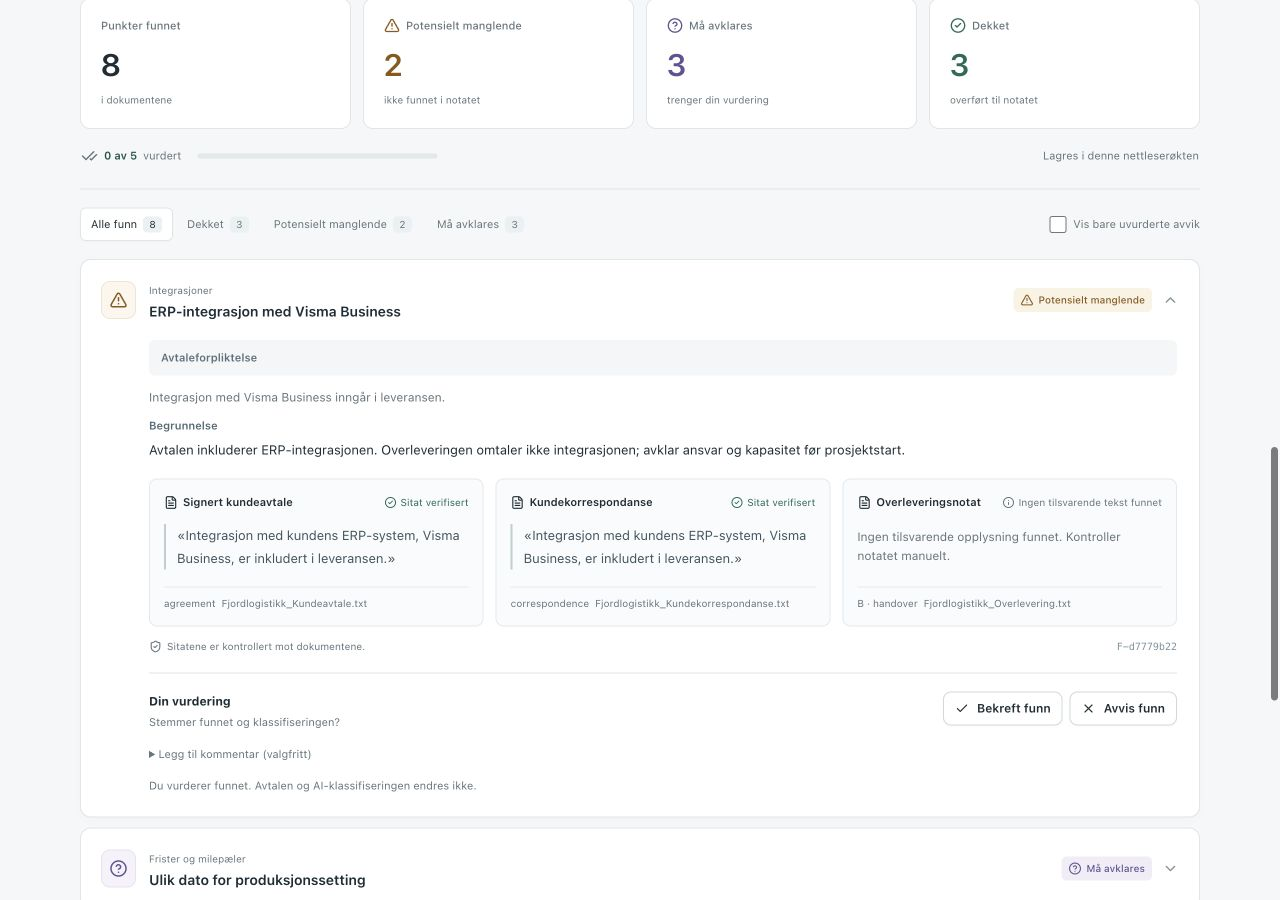
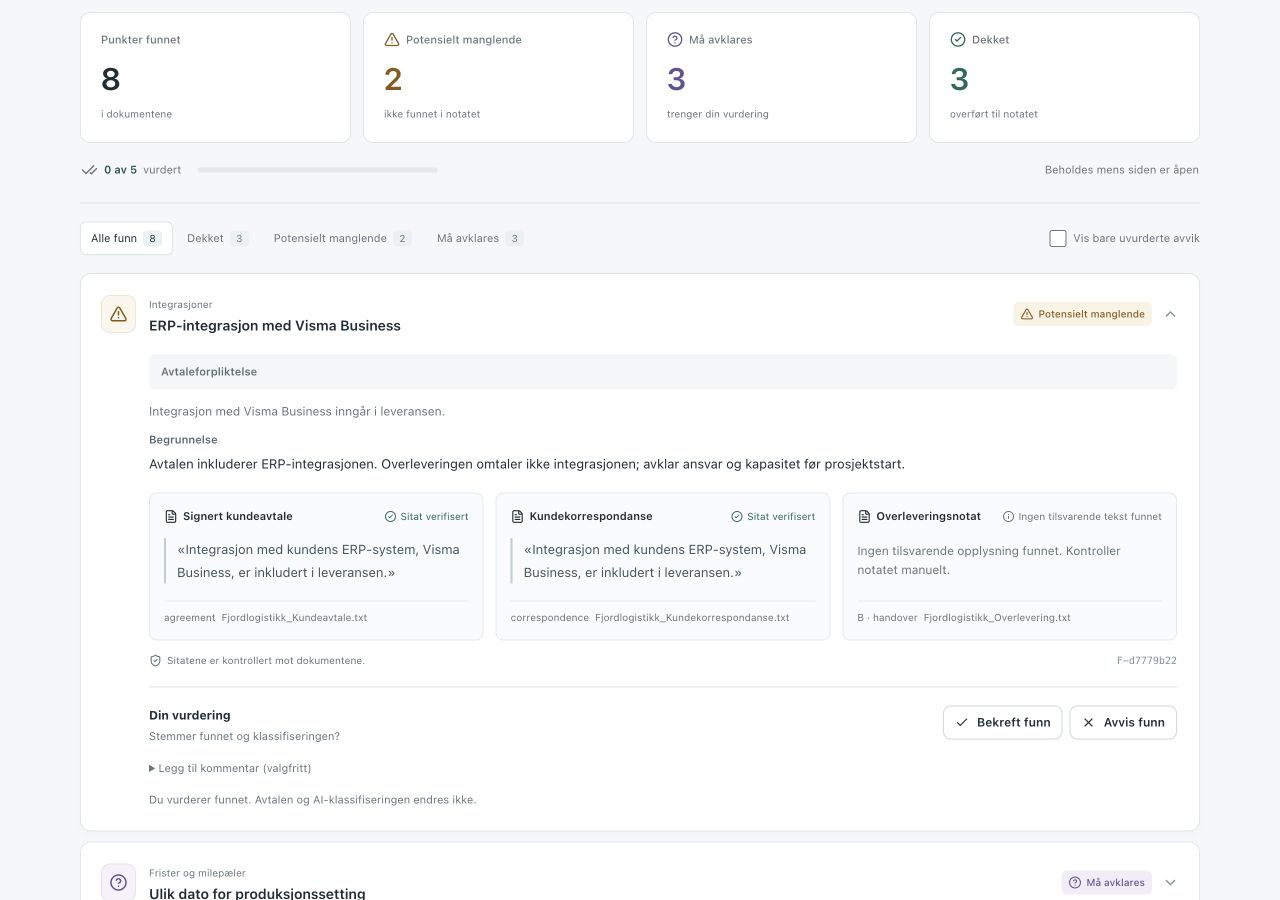
Preserve reviews on upload errors and simplify session handling

diff --git a/src/components/handover-app.tsx b/src/components/handover-app.tsx
@@ -46,8 +46,6 @@ import {
   canGenerateProposal,
   reviewProgress,
   requiresReview,
-  serializeSession,
-  SESSION_KEY,
   updateReview,
   type WorkflowActivity,
 } from "@/lib/review";
@@ -63,38 +61,11 @@ export function HandoverApp({ model }: { model: string }) {
   const [consent, setConsent] = useState(false);
   const [busy, setBusy] = useState<WorkflowActivity>(null);
   const [error, setError] = useState("");
-  const [storageWarning, setStorageWarning] = useState("");
-  const [ready, setReady] = useState(false);
   const [filter, setFilter] = useState<Classification | "all">("all");
   const [onlyUnreviewed, setOnlyUnreviewed] = useState(false);
   const [documentView, setDocumentView] = useState<DocumentId | null>(null);
   const lock = useRef(false);
   const resultsRef = useRef<HTMLDivElement>(null);
-
-  useEffect(() => {
-    try {
-      // A new page visit always starts a fresh control. Never restore an old
-      // analysis into the upload flow, even when this tab has saved results.
-      sessionStorage.removeItem(SESSION_KEY);
-    } catch {
-      /* eslint-disable react-hooks/set-state-in-effect */
-      setStorageWarning(
-        "Nettleseren tillater ikke øktlagring. Vurderinger beholdes bare mens siden er åpen.",
-      );
-    }
-    setReady(true);
-    /* eslint-enable react-hooks/set-state-in-effect */
-  }, []);
-  useEffect(() => {
-    if (!ready) return;
-    try {
-      if (result)
-        sessionStorage.setItem(SESSION_KEY, serializeSession(result, reviews));
-      else sessionStorage.removeItem(SESSION_KEY);
-    } catch {
-      /* State remains available in memory if session storage is disabled. */
-    }
-  }, [result, reviews, ready]);
 
   async function upload(file: File, id: DocumentId) {
     if (lock.current) return;
@@ -113,8 +84,6 @@ export function HandoverApp({ model }: { model: string }) {
     }
     lock.current = true;
     setBusy(id);
-    setResult(null);
-    setReviews({});
     try {
       const form = new FormData();
       form.set("file", file);
@@ -134,6 +103,7 @@ export function HandoverApp({ model }: { model: string }) {
       setResult(null);
       setReviews({});
       setFilter("all");
+      setOnlyUnreviewed(false);
     } catch (e) {
       setError(
         e instanceof Error && e.name !== "TimeoutError"
@@ -284,7 +254,7 @@ export function HandoverApp({ model }: { model: string }) {
             {!result && !busy && (
               <div className="demo-invite">
                 <div><strong>Se hvordan det fungerer</strong><span>Ferdig eksempel. Ingen API-nøkkel nødvendig.</span></div>
-                <Button variant="outline" onClick={demo} disabled={!ready}><Play size={15} /> Prøv demo</Button>
+                <Button variant="outline" onClick={demo}><Play size={15} /> Prøv demo</Button>
               </div>
             )}
           </div>
@@ -363,7 +333,7 @@ export function HandoverApp({ model }: { model: string }) {
                   key={id}
                   id={id}
                   document={documents[id]}
-                  disabled={!!busy || !consent || !ready}
+                  disabled={!!busy || !consent}
                   loading={busy === id}
                   onUpload={(file) => upload(file, id)}
                   onView={() => setDocumentView(id)}
@@ -384,7 +354,7 @@ export function HandoverApp({ model }: { model: string }) {
                     key={id}
                     id={id}
                     document={documents[id]}
-                    disabled={!!busy || !consent || !ready}
+                    disabled={!!busy || !consent}
                     loading={busy === id}
                     onUpload={(file) => upload(file, id)}
                     onView={() => setDocumentView(id)}
@@ -462,11 +432,6 @@ export function HandoverApp({ model }: { model: string }) {
               </button>
             </div>
           )}
-          {storageWarning && (
-            <p className="storage-warning" role="status">
-              {storageWarning}
-            </p>
-          )}
           {busy === "analysis" && (
             <div className="loading-panel" role="status" aria-live="polite">
               <LoaderCircle className="spin" size={24} />
@@ -483,6 +448,7 @@ export function HandoverApp({ model }: { model: string }) {
               className="results-section"
               ref={resultsRef}
               aria-labelledby="results-title"
+              inert={!!busy && busy !== "generation" && busy !== "verification"}
             >
               <div className={`analysis-origin ${result.mode}`}>
                 <span>
@@ -596,7 +562,7 @@ export function HandoverApp({ model }: { model: string }) {
                     ? "Kontroller dokumentene og start en ny analyse"
                     : progress.unresolved === 0
                     ? "Klar til å lage forslag"
-                    : "Lagres i denne nettleserøkten"}
+                    : "Beholdes mens siden er åpen"}
                 </span>
               </div>
               <div className="findings-toolbar">

diff --git a/tests/core.test.ts b/tests/core.test.ts
@@ -18,9 +18,7 @@ import { demoDocuments, demoResponse, getDemoAnalysis } from "../src/lib/demo";
 import {
   canGenerateProposal,
   getWorkflowStep,
-  parseSession,
   reviewProgress,
-  serializeSession,
   updateReview,
 } from "../src/lib/review";
 import { dataset } from "../evaluation/dataset";
@@ -139,7 +137,7 @@ describe("AI schema and evidence", () => {
     ).toHaveLength(1);
   });
 });
-describe("human review and browser session", () => {
+describe("human review and workflow", () => {
   it("keeps an empty analysis at review instead of marking the workflow complete", () => {
     const result = { ...getDemoAnalysis(false), findings: [] };
     expect(reviewProgress(result.findings, {})).toEqual({ reviewed: 0, unresolved: 0, total: 0 });
@@ -216,9 +214,6 @@ describe("human review and browser session", () => {
       total: 3,
     });
     expect(result.findings[0].classification).toBe("potentially_missing");
-    expect(parseSession(serializeSession(result, changed))?.reviews).toEqual(
-      changed,
-    );
     expect(
       reviewProgress(
         result.findings,
@@ -228,7 +223,7 @@ describe("human review and browser session", () => {
       ).unresolved,
     ).toBe(2);
   });
-  it("comments do not count as reviewed and malformed sessions are ignored", () => {
+  it("does not count comments as reviewed and rejects overlong comments", () => {
     const result = getDemoAnalysis(false);
     expect(
       reviewProgress(
@@ -236,8 +231,6 @@ describe("human review and browser session", () => {
         updateReview({}, result.findings[0].id, { comment: "Notat" }),
       ).reviewed,
     ).toBe(0);
-    for (const value of [null, "bad json", "{}", '{"result":null}'])
-      expect(parseSession(value)).toBeNull();
     expect(() =>
       updateReview({}, "F-1", { comment: "a".repeat(1001) }),
     ).toThrow();

diff --git a/src/lib/review.ts b/src/lib/review.ts
@@ -1,7 +1,6 @@
 import { duplicateDocumentMessage } from "./document-validation";
 import {
   reviewsSchema,
-  sessionSchema,
   type AnalysisResult,
   type Finding,
   type Review,
@@ -9,7 +8,6 @@ import {
   type UploadedDocument,
   type DocumentId,
 } from "./schemas";
-export const SESSION_KEY = "handover-ai-session-v1";
 export type WorkflowActivity =
   DocumentId | "analysis" | "verification" | "generation" | null;
 export function getWorkflowStep(
@@ -63,15 +61,4 @@ export function canGenerateProposal(
     analysis.findings.length > 0 &&
     reviewProgress(analysis.findings, reviews).unresolved === 0
   );
-}
-export function parseSession(value: string | null) {
-  if (!value) return null;
-  try {
-    return sessionSchema.parse(JSON.parse(value));
-  } catch {
-    return null;
-  }
-}
-export function serializeSession(result: AnalysisResult, reviews: Reviews) {
-  return JSON.stringify(sessionSchema.parse({ result, reviews }));
 }

diff --git a/src/app/globals.css b/src/app/globals.css
@@ -105,7 +105,6 @@ footer { display: flex; align-items: center; justify-content: space-between; gap
 .error-message { display: flex; align-items: flex-start; gap: 12px; padding: 18px; border: 1px solid #eccdc3; background: #fff4f0; color: #963e29; border-radius: 10px; margin-top: 20px; font-size: 13px; }
 .error-message p { margin-top: 4px; }
 .error-message > button { margin-left: auto; background: none; border: 0; color: inherit; }
-.storage-warning { font-size: 12px; color: var(--amber); margin-top: 12px; }
 .loading-panel { text-align: center; padding: 48px 20px; background: #fff; border: 1px solid var(--line); border-radius: var(--radius); margin-top: 24px; }
 .loading-panel > svg { color: var(--green); margin: 0 auto 14px; }
 .loading-panel h3 { font-size: 18px; }

diff --git a/src/lib/schemas.ts b/src/lib/schemas.ts
@@ -168,10 +168,6 @@ export const reviewSchema = z
   })
   .strict();
 export const reviewsSchema = z.record(z.string(), reviewSchema);
-export const sessionSchema = z.object({
-  result: analysisSchema,
-  reviews: reviewsSchema,
-});
 export type UploadedDocument = z.infer<typeof documentSchema>;
 export type Documents = z.infer<typeof documentsSchema>;
 export type AiFinding = z.infer<typeof aiFindingSchema>;

diff --git a/tests/secrets.test.ts b/tests/secrets.test.ts
@@ -21,7 +21,7 @@ describe("portfolio secret checks", () => {
       expect(sensitivePath(path)).toBe(true);
     for (const path of [
       ".env.example",
-      "docs/start-preview.png",
+      "docs/screenshots/start.jpg",
       "public/examples/Fjordlogistikk_Kundeavtale.txt",
     ])
       expect(sensitivePath(path)).toBe(false);

diff --git a/docs/verification.md b/docs/verification.md
@@ -2,7 +2,7 @@
 
 ## Gjeldende versjon
 
-Kontrollert etter oppdateringen av grensesnitt, språk og demodokumenter:
+Kontrollert etter rettingen av filbytte og forenklingen av øktbehandling:
 
 | Kontroll | Resultat |
 | --- | --- |
@@ -14,7 +14,9 @@ Kontrollert etter oppdateringen av grensesnitt, språk og demodokumenter:
 
 Hele demoen ble gjennomført i grensesnittet uten API-kall: åtte funn, fem nødvendige vurderinger, oppdatert forslag, tekstsammenligning, ny kontroll og manuell godkjenning. Ny kontroll beholdt alle åtte funn. Alle var dekket, med to åpne oppfølgingspunkter. Redigering fjernet godkjenningen og oppdaterte tekstsammenligningen. «Lukk demo» nullstilte kontrollen.
 
-På mobil ble de to syntetiske TXT-filene lastet opp gjennom filvelgeren. Progresjonen gikk til steg 02, og analyseknappen ble tilgjengelig. [Skjermbildene](../README.md#skjermbilder) er tatt fra det nye produksjonsbygget.
+Et avvist filbytte beholdt alle vurderinger, det manuelt redigerte utkastet og godkjenningen. Et vellykket filbytte nullstilte analysen og utkastet. En sideoppdatering startet med tom kontroll. Arbeidsøkten bruker bare nettleserminnet.
+
+På mobil ble de to syntetiske TXT-filene tidligere lastet opp gjennom filvelgeren. Progresjonen gikk til steg 02, og analyseknappen ble tilgjengelig. [Skjermbildene](../README.md#skjermbilder) viser syntetiske dokumenter; funnvisningen er oppdatert etter forenklingen av øktbehandling.
 
 Duplikatkontrollen er testet med samme tekst i ulike dokumentfelt, omdøpte filer, PDF/TXT og forskjeller i Unicode eller mellomrom. I nettleseren ga samme kunde-e-post i begge obligatoriske felt et varsel og sperret analyse. Varselet forsvant etter filbytte. Tomme analyser kan verken åpne forslag i grensesnittet eller sendes til forslagsruten; serverkontrollene ble testet uten Gemini-kall.
 
@@ -38,10 +40,8 @@ Grunnlaget er lite og gjelder en eldre arbeidsflyt. Uavhengig validering er ikke
 
 ## Observerte svakheter
 
-Tidligere live-tester viste at første analyse kan utelate en opplysning fra korrespondansen eller finne ulike sett med krav ved gjentatte kjøringer. Et forslagskall traff tidsgrensen på 60 sekunder. Det ble også observert et omskrevet kildesitat, som den deterministiske kontrollen merket uverifisert. Ingen av disse feilene skal skjules av demodata eller automatisk modellbytte.
+Syntetiske live-kontroller av flerdokumentflyten fullførte analyse og ny kontroll med `gemini-3.5-flash-lite`. I et kort eksempel ble tre av tre opprinnelige funn beholdt. Dette var funksjonstester, ikke en ny presisjonsmåling. Et forslagskall med de tre Fjordlogistikk-dokumentene traff tidsgrensen på 60 sekunder, så hele denne live-forslagsflyten ble ikke bekreftet.
+
+Første analyse kan utelate en opplysning fra korrespondansen eller finne ulike sett med krav ved gjentatte kjøringer. Det ble også observert et omskrevet kildesitat, som den deterministiske kontrollen merket uverifisert. Ingen av disse feilene skal skjules av demodata eller automatisk modellbytte.
 
 Fast kontrollgrunnlag hindrer at kjente funn forsvinner fra neste analyse. Det fanger ikke opp krav som allerede ble oversett første gang. Verifiserte sitater og gjennomførte tester er heller ingen garanti for at tolkningen er riktig.
-
-## Historikk
-
-[Arkivert verifiseringslogg](archive/verification-2026-10.md) inneholder de tidligere kontrollene, observerte feilene og utviklingen av flerdokumentflyten. Beskrivelser og testtall i arkivet gjelder versjonen som ble kontrollert den gangen.

diff --git a/docs/technical-guide.no.md b/docs/technical-guide.no.md
@@ -4,7 +4,7 @@ Denne guiden forklarer dataflyten og de viktigste designvalgene. Oppsett og bruk
 
 ## Arkitektur
 
-Next.js samler grensesnitt og serverruter i ett prosjekt. Det er ingen database eller eksterne dokumenttjenester. Dokumenter behandles i minnet. Vurderinger lagres lokalt mens kontrollen er åpen; utkast og godkjenning ligger i nettleserminnet. En ny sideåpning starter en tom kontroll.
+Next.js samler grensesnitt og serverruter i ett prosjekt. Det er ingen database eller eksterne dokumenttjenester. Dokumenter behandles i serverminnet ved forespørsler. Arbeidsøkten med dokumenter, analyse, vurderinger, utkast og godkjenning ligger bare i nettleserminnet mens siden er åpen. En ny sideåpning starter en tom kontroll.
 
 | Del | Ansvar |
 | --- | --- |
@@ -29,7 +29,7 @@ To faste dokumentplasser er obligatoriske. Tre er valgfrie, med én fil per plas
 | `correspondence` | Kundekorrespondanse |
 | `meeting_notes` | Møtenotater eller annen salgsinformasjon |
 
-Hver fil har ID, dokumenttype, navn, byteantall, filtype og tekst. ID og type må stemme med dokumentplassen. Å erstatte en fil nullstiller analysen. Faste plasser gjør kildehenvisningene stabile uten et dokumentregister. Prototypen kontrollerer ikke om en avtale faktisk er signert. Identisk tekst i flere dokumentfelt gir varsel og sperrer første analyse, også på serveren før Gemini kalles. Sammenligningen normaliserer Unicode og mellomrom, og er uavhengig av filnavn. Den avgjør ikke om en tekst faktisk er en kundeavtale.
+Hver fil har ID, dokumenttype, navn, byteantall, filtype og tekst. ID og type må stemme med dokumentplassen. Et filbytte nullstiller analysen først når den nye filen er lastet opp og validert. Ved feil beholdes dokumentet og arbeidsøkten. Faste plasser gjør kildehenvisningene stabile uten et dokumentregister. Prototypen kontrollerer ikke om en avtale faktisk er signert. Identisk tekst i flere dokumentfelt gir varsel og sperrer første analyse, også på serveren før Gemini kalles. Sammenligningen normaliserer Unicode og mellomrom, og er uavhengig av filnavn. Den avgjør ikke om en tekst faktisk er en kundeavtale.
 
 Et funn inneholder klassifisering, forklaring, kategori, primærkilde med ordrett sitat og eventuelle tilleggssitater. `informationType` skiller avtaleforpliktelser fra oppfølgingsinformasjon og kildekonflikter. Koden legger til stabil funn-ID og verifiseringsstatus. Brukerens beslutning og kommentar lagres separat fra AI-vurderingen.
 
